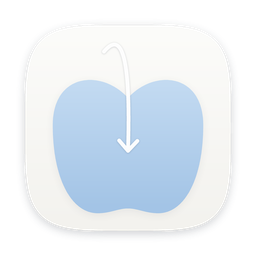
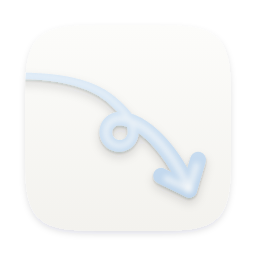
랜딩: 새 앱 아이콘(하늘 선)으로 아이콘·공유 미리보기 교체
- assets/favicon.png, icon-128.png, icon-256.png, apple-touch-icon.png, icon.png 교체
- og.png 왼쪽 아이콘만 교체(문구·배치 그대로), og:image ?v=9 → ?v=10

Claude-Session: https://claude.ai/code/session_015GUgjoKAUx4Gmz2Dovu94t

Changed region(s): [[0.0938, 0.2812, 0.8125, 0.8438]]

diff --git a/index.html b/index.html
@@ -13,13 +13,13 @@
 <meta property="og:description" content="끌어다 놓으면 끝. 사진·PDF 변환과 자르기를 Mac에서 무료로.">
 <link rel="canonical" href="https://realleejeonghoon.github.io/dropfit-download/">
 <meta property="og:url" content="https://realleejeonghoon.github.io/dropfit-download/">
-<meta property="og:image" content="https://realleejeonghoon.github.io/dropfit-download/assets/og.png?v=9">
+<meta property="og:image" content="https://realleejeonghoon.github.io/dropfit-download/assets/og.png?v=10">
 <meta property="og:image:width" content="1200">
 <meta property="og:image:height" content="630">
 <meta property="og:image:alt" content="Dropfit 앱 아이콘과 문구 ‘끌어다 놓으면, 끝. Dropfit · Mac용 무료 이미지·PDF 변환 앱’">
 <meta property="og:locale" content="ko_KR">
 <meta name="twitter:card" content="summary_large_image">
-<meta name="twitter:image" content="https://realleejeonghoon.github.io/dropfit-download/assets/og.png?v=9">
+<meta name="twitter:image" content="https://realleejeonghoon.github.io/dropfit-download/assets/og.png?v=10">
 
 <link rel="stylesheet" href="fonts/pretendardvariable-dynamic-subset.css">
 <link rel="icon" type="image/png" href="assets/favicon.png">
